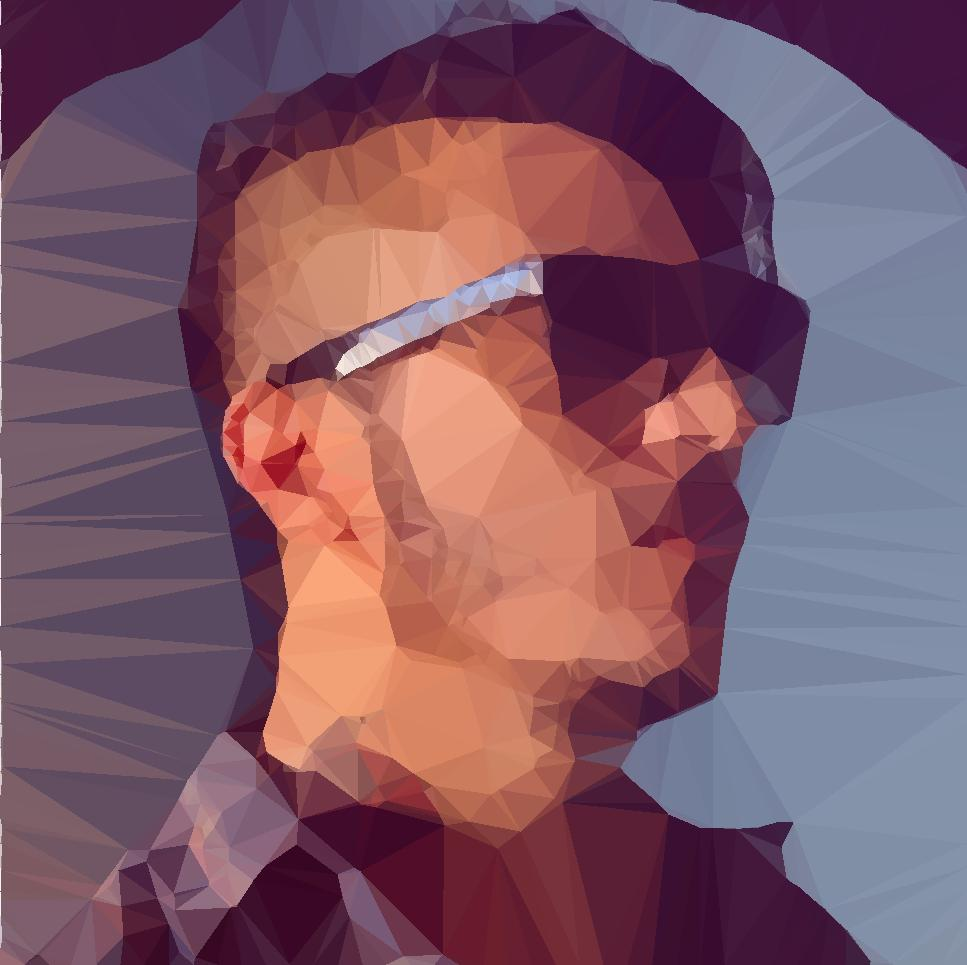
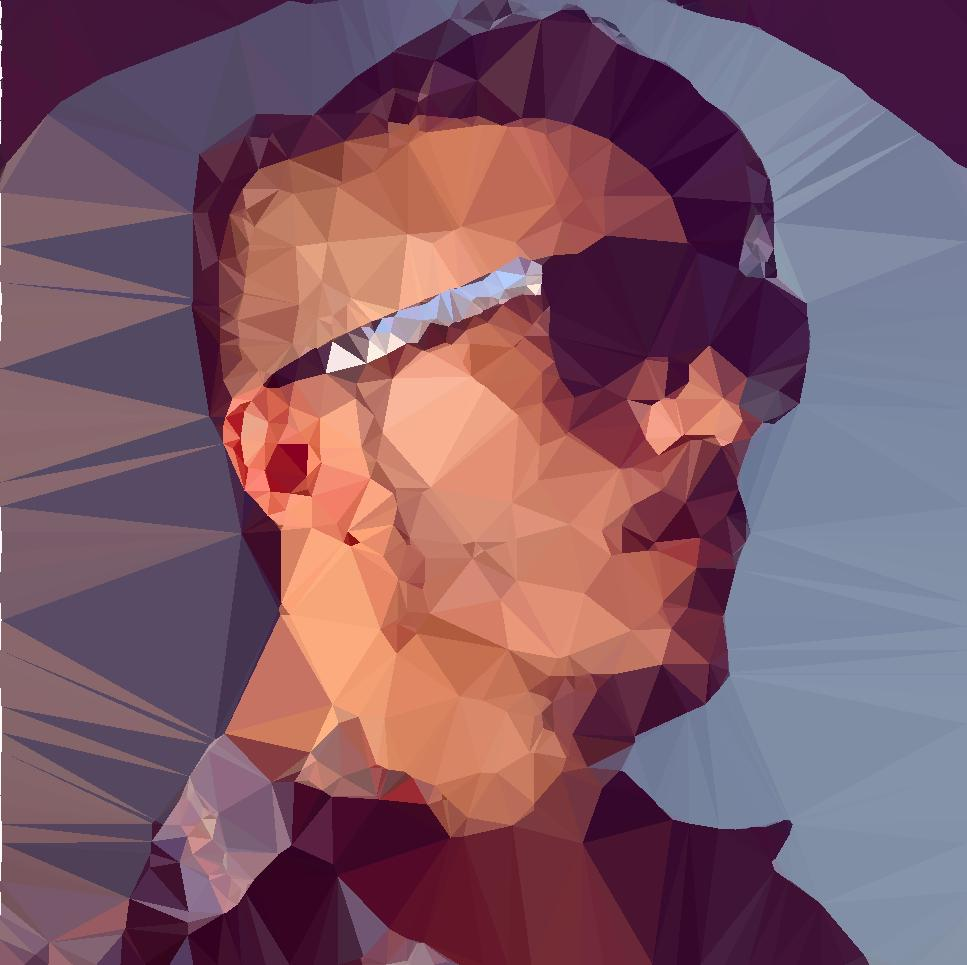
added basic texture detection

diff --git a/polygonize.py b/polygonize.py
@@ -9,7 +9,7 @@ from scipy.spatial import Delaunay
 from skimage import draw, filters, img_as_float32, img_as_ubyte, io
 from skimage.color import rgb2gray, rgba2rgb
 from sklearn.cluster import MiniBatchKMeans
-
+from skimage.feature import greycomatrix, greycoprops
 
 def save_image(path, im):
     """Save an image."""
@@ -26,13 +26,48 @@ def cluster_img(img: np.ndarray, clusters: int) -> np.ndarray:
         tol=0.0,
         max_no_improvement=5
     )
+    gray_img = np.mean(img, axis=2)
+    binned_img = (7.999 * gray_img).astype(int)
 
     # Weights
     COLOR_WEIGHT = 1.5
     INTENSITY_WEIGHT = 1.2
     POSITION_WEIGHT = 0.8
+    CONTRAST_WEIGHT = 0.2
+    CORRELATION_WEIGHT = 0.3
+    ASM_WEIGHT = 0.5
 
     s = (img.size**0.5)/2000
+    halfWindow = max((int)(5*s), 2)
+    contrast = np.zeros((img.shape[0]-2*halfWindow, img.shape[1]-2*halfWindow))
+    correlation = np.zeros((img.shape[0]-2*halfWindow, img.shape[1]-2*halfWindow))
+    asm = np.zeros((img.shape[0]-2*halfWindow, img.shape[1]-2*halfWindow))
+
+    print("Calculating textures")
+
+    # calculate glcm textures for each pixel
+    for i in range(img.shape[0] - 2*halfWindow):
+        for j in range(img.shape[1] - 2*halfWindow):
+            patch = binned_img[i:i + 2*halfWindow + 1,j:j + 2*halfWindow + 1]
+            glcm = greycomatrix(patch, [1], [0], levels=8)
+            contrast[i,j] = greycoprops(glcm, 'contrast')
+            correlation[i,j] = greycoprops(glcm, 'correlation')
+            asm[i,j] = greycoprops(glcm, 'ASM')
+    # pad edges
+    contrast = np.pad(contrast, halfWindow, mode="edge")
+    correlation = np.pad(correlation, halfWindow, mode="edge")
+    asm = np.pad(asm, halfWindow, mode="edge")
+    plt.imshow(contrast/np.mean(contrast))
+    plt.show()
+    plt.imshow(correlation/np.mean(correlation))
+    plt.show()
+    plt.imshow(asm/np.mean(asm))
+    plt.show()
+    #normalize and expand dims
+    contrast = np.expand_dims(contrast/np.mean(contrast), 2)
+    correlation = np.expand_dims(correlation/np.mean(correlation), 2)
+    asm = np.expand_dims(asm/np.mean(asm), 2)
+
 
     # Apply Gaussian blur to image
     img = filters.gaussian(img, sigma=s, multichannel=True)
@@ -43,19 +78,18 @@ def cluster_img(img: np.ndarray, clusters: int) -> np.ndarray:
 
     coordinates = np.indices(img.shape[0:2]).transpose((1, 2, 0)).astype(float)
     coordinates /= np.mean(coordinates)
-    intensity = np.expand_dims(np.mean(img, axis=2), 2) / color_mean
-    X = np.concatenate((img * COLOR_WEIGHT, intensity *
-                        INTENSITY_WEIGHT, coordinates * POSITION_WEIGHT), axis=2)
-    X = X.reshape(-1, 6)
+    intensity = np.expand_dims(gray_img, 2) / color_mean
+    X = np.concatenate((img * COLOR_WEIGHT, intensity * INTENSITY_WEIGHT, contrast * CONTRAST_WEIGHT, correlation * CORRELATION_WEIGHT, asm * ASM_WEIGHT, coordinates * POSITION_WEIGHT,), axis=2)
+    X = X.reshape(-1, 9)
 
     print("Beginning to fit model")
 
     kmeans.fit(X)
 
     print("Model fit")
-
-    res_image = kmeans.cluster_centers_[kmeans.labels_][:, 0:3]
-    res_image = np.reshape(res_image, img.shape) * color_mean / COLOR_WEIGHT
+    clustered = np.reshape(kmeans.cluster_centers_[kmeans.labels_][:,0:7], (img.shape[0],img.shape[1],7))
+    res_image = clustered[:, :, 0:3]
+    res_image = res_image * color_mean / COLOR_WEIGHT
 
     # # Plot to subplots
     # f, axes = plt.subplots(1, 2)
@@ -63,27 +97,33 @@ def cluster_img(img: np.ndarray, clusters: int) -> np.ndarray:
     # axes[1].imshow(res_image)
 
     # plt.show()
-    save_image("results" + os.sep + "kmeans.jpg", res_image)
+    save_image("results"       + os.sep + "kmeans.jpg", res_image)
 
-    return res_image
+    return clustered
 
 
 def triangulate(original_img: np.ndarray, clustered_img: np.ndarray, vertices: int, percent: float) -> Tuple[np.ndarray, np.ndarray]:
     """Performs Delaunay triangulation on a segmented (clustered) image."""
     s = (clustered_img.size**0.5)/4000
-
+    print(clustered_img.shape)
     # Apply Gaussian blur to image
     clustered_img = filters.gaussian(clustered_img, sigma=s, multichannel=True)
     # Edge detection on res
     res = filters.sobel(clustered_img[:,:,0])
     res += filters.sobel(clustered_img[:,:,1])
     res += filters.sobel(clustered_img[:,:,2])
-    res += 1.5*filters.sobel(rgb2gray(clustered_img))
+    res += filters.sobel(clustered_img[:,:,3])
+    res += filters.sobel(clustered_img[:,:,4])
+    res += filters.sobel(clustered_img[:,:,5])
+    res += filters.sobel(clustered_img[:,:,6])
+    print(np.max(res))
     #percentile = 100-(((vertices**.8)/res.size)*50000)
     percentile = 100 - percent
+    print(percentile)
     cutoff = np.percentile(res, percentile)
+    print(cutoff)
     # cutoff = 0.1
-    res[res > cutoff] = 1
+    print(res[res>cutoff].size)
     res[res <= cutoff] = 0
 
     # Select a random subset of edge points
@@ -156,18 +196,22 @@ def triangulate(original_img: np.ndarray, clustered_img: np.ndarray, vertices: i
     return points, tri.simplices
 
 
-def visualize(img: np.ndarray, points: np.ndarray, simplices: np.ndarray) -> None:
+def visualize(img: np.ndarray, points: np.ndarray, simplices: np.ndarray, average: bool) -> None:
     """Perform shading of triangulation and visualize results."""
     for i in range(len(simplices)):
         triangle = points[simplices[i]]
         pixels = img[draw.polygon(triangle[:, 1], triangle[:, 0])]
-        color = np.average(pixels, 0)
+        if (average):
+            color = np.average(pixels, 0)
+        else:
+            centroid = np.average(triangle, axis=0).astype(int)
+            color = img[centroid[1], centroid[0]]
         img[draw.polygon(triangle[:, 1], triangle[:, 0])] = color
 
     return img
 
 
-def polygonize(path: str, clusters: int, vertices: int, percent: float) -> np.ndarray:
+def polygonize(path: str, clusters: int, vertices: int, percent: float, average: bool) -> np.ndarray:
     """Polygonize a specified image with a specified number of clusters for segmentation."""
     # Convert to RGB
     img = io.imread(path)
@@ -192,7 +236,7 @@ def polygonize(path: str, clusters: int, vertices: int, percent: float) -> np.nd
     points, simplices = triangulate(img, res, vertices, percent)
 
     # Visualize
-    result = visualize(img, points, simplices)
+    result = visualize(img, points, simplices, average)
     save_image("results" + os.sep + re.split(('/|\\\\'), path)[-1], result)
 
     return result

diff --git a/main.py b/main.py
@@ -54,6 +54,15 @@ def parse_args() -> argparse.Namespace:
         default=2500
     )
 
+    parser.add_argument(
+        '--average',
+        help='Whether or not to take average color',
+        dest='average',
+        type=bool,
+        default=True
+    )
+    parser.add_argument('--sample', dest='average', action='store_false')
+
     return parser.parse_args()
 
 
@@ -72,7 +81,7 @@ def main() -> None:
         print("Average time per run: " + str((time.time() - start) / 10))
     else:
         # Normal execution
-        res = polygonize(args.data, args.clusters, args.vertices, args.percent)
+        res = polygonize(args.data, args.clusters, args.vertices, args.percent, args.average)
 
     plt.imshow(res)
     plt.show()
